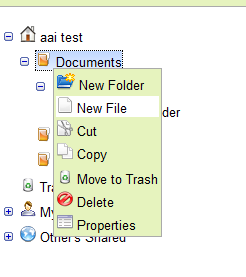
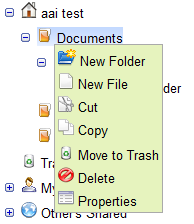
images and text for folder creation and properties

diff --git a/gss/docs/userguide/el/folder-help.html b/gss/docs/userguide/el/folder-help.html
@@ -9,6 +9,74 @@
 <P>[<A HREF="index.html">αρχική σελίδα</A>]</P>
 <H1>Δημιουργία καταλόγου – Στοιχεία καταλόγου</H1>
 
+<H2>Νέος κατάλογος</H2>
+<P>Νέος κατάλογος μπορεί να δημιουργηθεί ως υποκατάλογος του κεντρικού καταλόγου του χρήστη, ή υποκαταλόγου του. 
+Αυτό μπορεί να γίνει ως εξής:</P>
+<P>1. Επιλογή του καταλόγου "πατέρα"
+</P>
+<P>2. Επιλογή ενέργειας "New Folder" είτε από το μενού "File", είτε από το context menu που εμφανίζεται 
+με right mouse click πάνω στον κατάλογο, όπως φαίνεται στις παρακάτω είκόνες:
+<br/>
+	<table width="100%">
+		<tr>
+			<td width="50%" align="center">
+				<img src="images/gss_file_menu.png" class="image"/>
+				<br/>
+				Επιλογή New Folder από το μενού File
+			</td>
+			<td width="50%" align="center">
+				<img src="images/gss_folder_context_menu.png" class="image"/>
+				<br/>
+				Επιλογή New Folder από το context menu (right click) του καταλόγου
+			</td>
+		</tr>
+	</table>
+</P>
+<P>3. Το σύστημα εμφανίζει διάλογο για τον ορισμό του ονόματος του καταλόγου(όπως φαίνεται στο σχήμα).
+<br/>
+	<table width="100%">
+		<tr>
+			<td align="center">
+				<img src="images/gss_folder_create.png" class="image"/>
+				<br/>
+				Διάλογος για τη δημιουργία καταλόγου
+			</td>
+		</tr>
+	</table>
+</P>
+<P>4. Ο χρήστης συμπληρώνει το όνομα του καταλόγου και επιλέγοντας "ΟΚ", ο διάλογος κλείνει, το σύστημα δημιουργεί τον
+κατάλογο και το δέντρο καταλόγων ενημερώνεται κατάλληλα. Αν ο χρήστης επιλέξει "Cancel", η ενέργεια ακυρώνεται χωρίς καμμία επίπτωση.
+</P>
+<BR/>
+
+<H2>Στοιχεία καταλόγου</H2>
+<P>Ο χρήστης έχει πρόσβαση στα στοιχεία (μετα-δεδομένα) του επιλεγμένου καταλόγου μέσω της επιλογής "Properties" 
+του μενού "File" ή του file context menu (right mouse click στο αρχείο) αφού πρώτα επιλεγεί κατάλογος από το δέντρο καταλόγων.
+</P>
+<P>Η επιλογή "Properties" εμφανίζει διάλογο με δύο tabs για τα μετα-δεδομένα του επιλεγμένου
+καταλόγου, όπως δείχνουν οι παρακάτω εικόνες. Το πρώτο tab (τίτλος "General") εμφανίζει τα 
+γενικά στοιχεία του καταλόγου, όπως: όνομα, κατάλογος-πατέρας, ιδιοκτήτης, ημερομηνία & ώρα δημιουργίας.
+Μέσω αυτού του tab μπορεί να αλλάξει το όνομα του καταλόγου. Το δεύτερο tab (τίτλος "Permissions") 
+εμφανίζει και επιτρέπει τη διαχείριση των δικαιωμάτων πρόσβασης στον κατάλογο - επεξηγείται με 
+λεπτομέρειες <A HREF="file-sharing-help.html">εδώ</A>.
+<br/>
+	<table width="100%">
+		<tr>
+			<td align="center" width="50%">
+				<img src="images/gss_folder_properties_general.png" class="image"/>
+				<br/>
+				Γενικά στοιχεία καταλόγου
+			</td>
+			<td align="center" width="50%">
+				<img src="images/gss_folder_properties_permissions.png" class="image"/>
+				<br/>
+				Στοιχεία δικαιωμάτων πρόσβασης καταλόγου
+			</td>
+		</tr>
+	</table>
+</P>
+<BR/>
+
 <P>[<A HREF="index.html">αρχική σελίδα</A>]</P>
 </BODY>
 </HTML>
